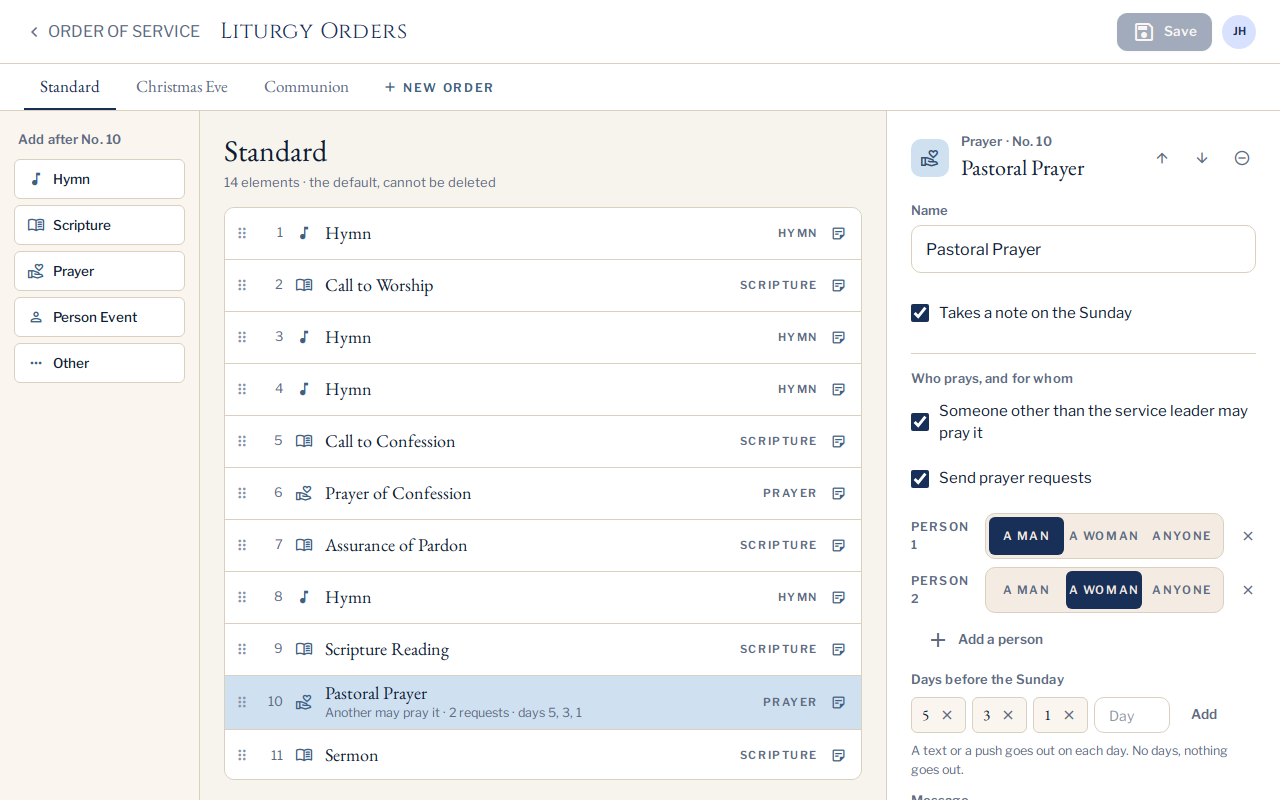
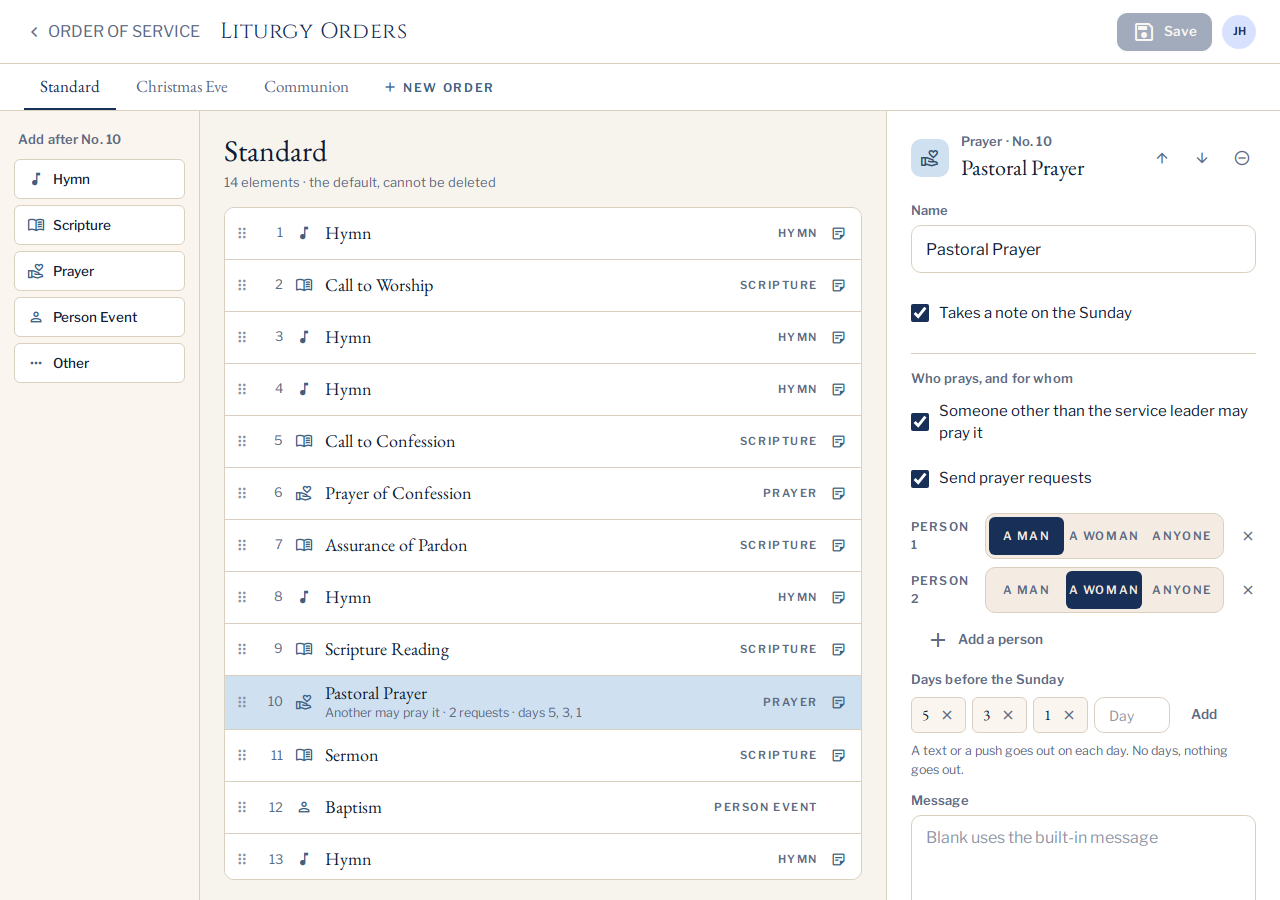
MS-716: fix inspector scroll, prayer fields, and person seg layout
Wrap Alpine x-if prayer-request block in one root so days/message render.
320px inspector, two-line person label, title ellipsis, flex height chain.
Playwright flow: scroll inspector, days [5,3,7], message persist, 1280×900 shots.

diff --git a/public/liturgy-orders.html b/public/liturgy-orders.html
@@ -209,11 +209,15 @@
                                     </label>
 
                                     <template x-if="inspectorElement.requests">
+                                        <div class="lo-requests">
                                         <div class="lo-person">
                                             <template x-for="(person, pindex) in inspectorElement.requests.people" :key="inspectorElement.id + '-' + pindex">
                                                 <div class="lo-person__line">
-                                                    <span class="lo-person__n" x-text="'Person ' + (pindex + 1)"></span>
-                                                    <div class="m-seg m-seg--fill" role="group" :aria-label="'Who person ' + (pindex + 1) + ' is for ' + inspectorElement.name">
+                                                    <span class="lo-person__n" :aria-label="'Person ' + (pindex + 1)">
+                                                        <span class="lo-person__n-word">Person</span>
+                                                        <span class="lo-person__n-num" x-text="pindex + 1"></span>
+                                                    </span>
+                                                    <div class="m-seg m-seg--fill lo-person__seg" role="group" :aria-label="'Who person ' + (pindex + 1) + ' is for ' + inspectorElement.name">
                                                         <template x-for="opt in whoOptions" :key="opt.value">
                                                             <button type="button" class="m-seg__opt" :disabled="!editing"
                                                                     @click="setPersonWho(inspectorElement, pindex, opt.value)"
@@ -281,6 +285,7 @@
                                                       @change="updateElement(inspectorElement.id, { response: $event.target.value })"></textarea>
                                             <span class="lo-hint">Sent back when they reply.</span>
                                         </label>
+                                        </div>
                                     </template>
                                 </div>
                             </template>
@@ -315,7 +320,9 @@
 
     <style>
         .lo-page.m-page--tool {
-            --lo-header-h: 56px; width: 100%; max-width: none; margin: 0;
+            --lo-header-h: 56px; --lo-tabs-h: 46px;
+            display: flex; flex-direction: column; width: 100%; max-width: none; margin: 0;
+            height: 100dvh; max-height: 100dvh; overflow: hidden;
         }
         .lo-page.m-page--tool > .m-header,
         .lo-page.m-page--tool > .lo-tabs,
@@ -351,9 +358,9 @@
             text-transform: uppercase; color: var(--secondary);
         }
         .lo-tab--new .material-symbols-outlined { font-size: 18px; }
-        .lo-body { position: relative; flex: 1 1 auto; min-height: 0; }
+        .lo-body { position: relative; flex: 1 1 0; min-height: 0; overflow: hidden; display: flex; flex-direction: column; }
         .lo-workspace {
-            flex: 1 1 auto; min-height: 0; display: grid;
+            flex: 1 1 0; min-height: 0; display: grid;
             grid-template-columns: minmax(0, 1fr); grid-template-rows: auto minmax(0, 1fr);
             gap: 0; overflow: hidden;
         }
@@ -402,14 +409,17 @@
         .lo-row__note { font-size: 17px; color: var(--secondary); flex: 0 0 auto; opacity: 1; }
         .lo-row:not(.lo-row--on) .lo-row__note { opacity: .85; }
         .lo-inspector {
-            min-height: 0; display: flex; flex-direction: column;
+            min-height: 0; display: flex; flex-direction: column; overflow: hidden;
             border-top: 1px solid var(--outline-variant); background: var(--surface-container-lowest);
         }
-        .lo-inspector__scroll { flex: 1 1 auto; min-height: 0; overflow-y: auto; padding: 22px var(--space-lg); }
+        .lo-inspector__scroll {
+            flex: 1 1 0; min-height: 0; overflow-y: auto; overscroll-behavior: contain;
+            padding: 22px var(--space-lg);
+        }
         .lo-inspector__empty { padding-top: 48px; }
         .lo-inspector__panel { display: flex; flex-direction: column; gap: 18px; max-width: 100%; }
         .lo-inspector__panel .m-token { font-variant-numeric: tabular-nums; }
-        .lo-inspector__head { display: flex; align-items: center; gap: 12px; }
+        .lo-inspector__head { display: flex; align-items: center; gap: 12px; min-width: 0; }
         .lo-inspector__glyph {
             flex: 0 0 38px; height: 38px; border-radius: var(--radius);
             background: var(--secondary-container); color: var(--on-secondary-container);
@@ -417,23 +427,31 @@
         }
         .lo-inspector__glyph .material-symbols-outlined { font-size: 20px; }
         .lo-inspector__lead { flex: 1 1 auto; min-width: 0; display: flex; flex-direction: column; }
-        .lo-inspector__title { font-family: var(--font-serif); font-size: 22px; color: var(--on-surface); }
+        .lo-inspector__title {
+            flex: 1 1 auto; min-width: 0;
+            font-family: var(--font-serif); font-size: 22px; color: var(--on-surface);
+            white-space: nowrap; overflow: hidden; text-overflow: ellipsis;
+        }
         .lo-inspector__acts { display: flex; align-items: center; gap: 2px; flex: 0 0 auto; }
         .lo-hint { display: block; margin-top: var(--space-xs); font-size: 12.5px; line-height: 1.45; color: var(--on-surface-variant); white-space: normal; }
         .lo-textarea { height: auto; padding-top: 10px; resize: vertical; }
         .lo-prayer { display: flex; flex-direction: column; gap: 12px; padding-top: 16px; border-top: 1px solid var(--outline-variant); }
+        .lo-requests { display: flex; flex-direction: column; gap: 12px; }
         .lo-person { display: flex; flex-direction: column; gap: 8px; }
         .lo-person__line {
             display: flex; flex-direction: row; align-items: center; gap: 8px; min-width: 0;
         }
         .lo-person__n {
-            flex: 0 0 72px; white-space: nowrap; font-size: 11px; font-weight: 600; letter-spacing: .12em;
+            flex: 0 0 40px; display: flex; flex-direction: column; justify-content: center;
+            font-size: 10px; font-weight: 600; line-height: 1.2; letter-spacing: .12em;
             text-transform: uppercase; color: var(--on-surface-variant);
         }
-        .lo-person__line > .m-seg { flex: 1 1 0; min-width: 0; }
+        .lo-person__seg { flex: 1 1 0; min-width: 0; }
         .lo-person__line > .m-icon-btn { flex: 0 0 auto; }
-        .lo-inspector .m-seg__opt {
-            padding-left: 6px; padding-right: 6px; font-size: 10.5px; letter-spacing: .08em;
+        .lo-inspector .lo-person__seg.m-seg--fill .m-seg__opt {
+            flex: 1 1 0; min-width: 0; padding: 0 5px;
+            font-size: 10.5px; letter-spacing: .05em; text-transform: uppercase;
+            overflow: visible; text-overflow: clip; white-space: nowrap;
         }
         .lo-person__add {
             align-self: flex-start; display: inline-flex; align-items: center; gap: var(--space-xs);
@@ -458,11 +476,10 @@
         .sortable-ghost { opacity: .4; }
         @media (min-width: 1024px) {
             .lo-workspace {
-                grid-template-columns: 160px minmax(0, 1fr) 300px;
+                grid-template-columns: 160px minmax(0, 1fr) 320px;
                 grid-template-rows: minmax(0, 1fr);
-                height: 100%;
             }
-            .lo-palette, .lo-canvas, .lo-inspector { min-height: 0; }
+            .lo-palette, .lo-canvas, .lo-inspector { min-height: 0; height: 100%; }
             .lo-workspace > .m-notice { grid-column: 1 / -1; }
             .lo-palette {
                 display: flex; flex-direction: column; gap: 10px; padding: 20px 10px 20px 0;
@@ -471,9 +488,8 @@
             }
             .lo-inspector {
                 border-top: 0; border-left: 1px solid var(--outline-variant);
-                min-height: 0; max-height: 100%; overflow: hidden;
             }
-            .lo-inspector__scroll { padding: 22px 16px 22px 18px; overflow-y: auto; }
+            .lo-inspector__scroll { padding: 22px 16px 22px 18px; }
             .lo-canvas { padding: 20px 16px 0 12px; }
             .lo-list { margin-bottom: 16px; }
         }
